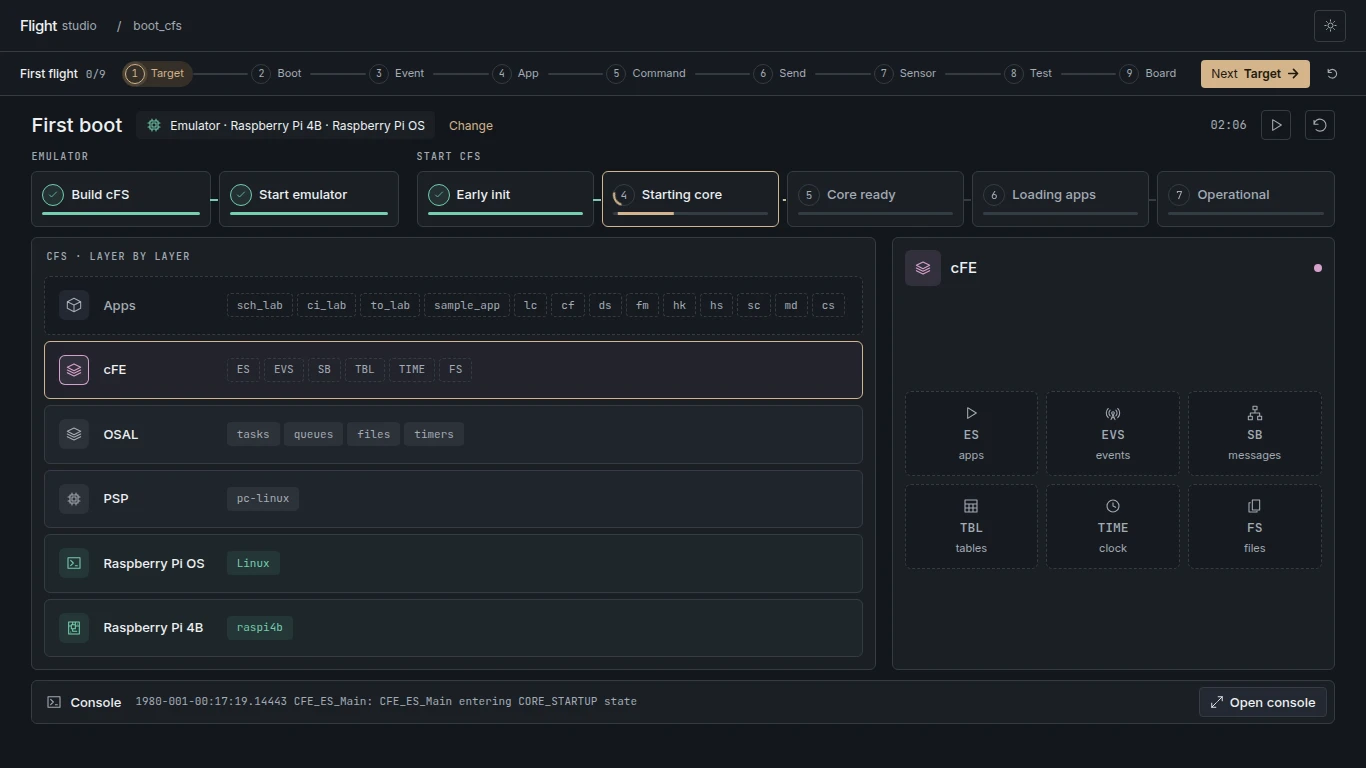
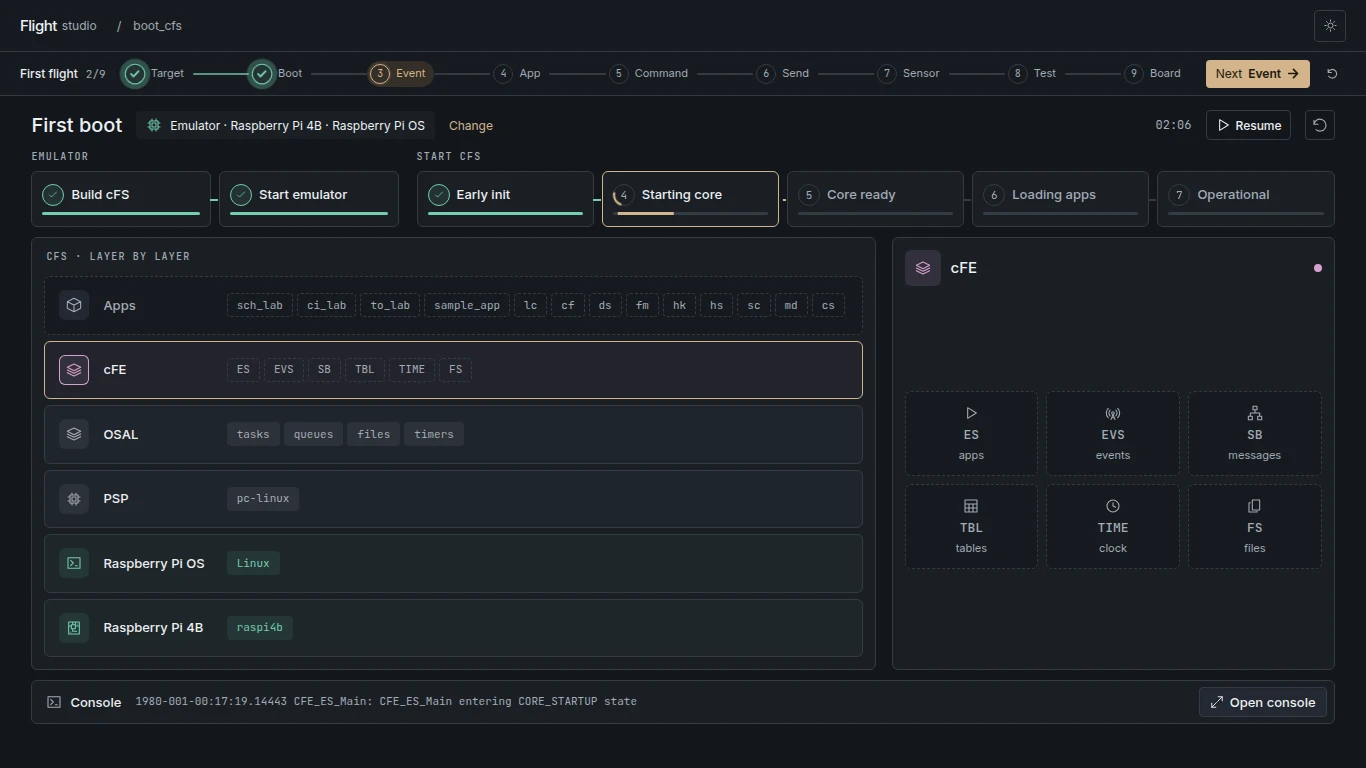
Refresh setup and boot walkthroughs from the running mission

diff --git a/docs/validation.md b/docs/validation.md
@@ -4,7 +4,7 @@
 
 | Ambiente | Python | JavaScript |
 | --- | --- | --- |
-| Checkout com o cFS oficial instalado, após o reparo do boot QEMU | 74 de 74 passaram, inclusive os dois ciclos HTTP de missão e hardware. | 24 de 24 passaram. |
+| Checkout com o cFS oficial instalado, após a revisão de configuração e primeiro boot | 77 de 77 passaram, inclusive os dois ciclos HTTP de missão e hardware. | 25 de 25 passaram. |
 | Projeto antes do clone, ensaio anterior | 61 passaram. Os dois ciclos HTTP que dependem dos fontes oficiais foram pulados. | 20 de 20 passaram. |
 
 ## Primeiro voo nativo
@@ -36,8 +36,9 @@ Em 19 de novembro de 2026, o Raspberry Pi OS emulado já havia chegado ao login,
 | --- | --- |
 | Binário e destino | cFS oficial `a4d305dc06fb`, build ARM64, guest `aarch64`. |
 | Processo e journal | `cfs.service` ativo, PID 1023. O journal dessa invocação registrou os cinco estados do ES, até `CFE_ES_Main entering OPERATIONAL state`. |
+| Retomada do console | Ao reiniciar o servidor do Studio, o mesmo serviço continuou em OPERATIONAL. Um leitor identificado pela invocação systemd recuperou o evento de inicialização **MD/1** e seguiu recebendo novas linhas. |
 | Apps | 13 entradas no startup. Doze apps emitiram seu evento EVS de inicialização. `sch_lab` confirmou a inicialização em texto no console. Seu chip aguarda um evento EVS identificado. |
-| Navegador | Os cartões passaram por build, emulador e início do cFS. Abrir o console preservou a posição da pilha. O botão **Ground Station** abriu a etapa Event. |
+| Navegador | A faixa exibiu o build, o emulador e os cinco marcos de início do cFS. Abrir o console preservou a posição da pilha. Na versão atual, o espaço entre o rodapé e o fim da janela ficou em 18 px a 1440 × 900 e 8 px a 1366 × 768. O botão **Ground Station** abriu a etapa Event. |
 
 [![Voo QEMU em OPERATIONAL na janela do Studio](images/first-flight/boot-qemu-running.webp)](images/first-flight/boot-qemu-running.webp)
 
@@ -48,7 +49,7 @@ Cada linha traz o export interativo fornecido e a tela correspondente servida pe
 <details>
 <summary>Escolha do alvo</summary>
 
-As capturas mostram o estado depois de verificar **Native** em uma cópia nova. **Compiler** e **Python** passaram. **Source** aguarda a instalação. Abrir os detalhes e o terminal manteve os cartões nas mesmas coordenadas em 1440 × 900, 1366 × 768 e 390 × 844. Em uma instalação de teste com PTY, **Input required** permitiu responder a uma solicitação de senha e acompanhar a verificação posterior. O tema claro da aplicação usa bege.
+As capturas mostram o estado depois de verificar **Native** em uma cópia nova. **Compiler** e **Python** passaram. **Source** aguarda a instalação. Na placa, confirmamos que **Save settings** persistiu o endereço pela API e que **Cancel** e Escape preservaram o valor anterior. Abrir os detalhes e o terminal manteve os cartões nas mesmas coordenadas em 1440 × 900, 1366 × 768 e 390 × 844. Em uma instalação de teste com PTY, **Input required** permitiu responder a uma solicitação de senha e acompanhar a verificação posterior. O tema claro da aplicação usa bege.
 
 | Janela e tema | Referência | Flight Studio |
 | --- | --- | --- |
@@ -62,7 +63,7 @@ As capturas mostram o estado depois de verificar **Native** em uma cópia nova. 
 <details>
 <summary>Primeiro boot</summary>
 
-As capturas mostram a reprodução de um voo nativo, pausado em **Starting core**, com os cinco marcos abertos pelo cartão **Start cFS**. As apps recebem a marca de inicialização conforme chegam suas mensagens no log. O console pôde ser aberto e fechado sem deslocar a pilha em ambas as resoluções.
+As capturas mostram o voo QEMU no registro **Starting core**. A faixa superior exibe cada um dos cinco estados do núcleo. No Chromium, selecionar **Loading apps** mostrou as apps confirmadas até aquele registro e manteve **Operational** pendente. **Resume** voltou ao voo em execução. **Open console**, **Close console** e Escape mantiveram a posição da pilha. A página coube em 1440 × 900, 1366 × 768 e 390 × 844 nos dois temas.
 
 | Janela e tema | Referência | Flight Studio |
 | --- | --- | --- |

diff --git a/docs/design.md b/docs/design.md
@@ -43,8 +43,8 @@ flowchart LR
 
 | Área | Ação e resposta |
 | --- | --- |
-| **Choose target** | As três ilustrações representam Native, Emulator e Board. Ao abrir a página, os grupos aparecem em estado neutro. Ativar um cartão por clique, Enter ou Espaço inicia os três grupos em sequência, inclusive no destino já selecionado. **Install requirements** verifica e corrige o destino. Um grupo com **+** permite reparar aquele requisito. O anel acompanha a instalação e dá lugar a um check depois da verificação. **Details** abre os comandos e seus resultados ou o terminal da instalação em andamento. Ambos se sobrepõem ao setup. Os três grupos aprovados liberam **Continue to boot**. |
-| **First boot** | Os cartões acompanham as etapas necessárias para o alvo. A pilha acende conforme o log do voo. Clique em uma camada para inspecionar seu desenho. O cartão **Start cFS** mostra a etapa atual do Executive Services e abre o histórico dos cinco marcos. O console abre sobre a pilha pelo rodapé. O replay usa os instantes registrados pelo build e pelo cFS. É possível pausar, retomar e rever as camadas. **Ground Station** abre a estação quando o cFS está em OPERATIONAL. |
+| **Choose target** | As três ilustrações representam Native, Emulator e Board. Ao abrir a página, os grupos aparecem em estado neutro. Ativar um cartão por clique, Enter ou Espaço inicia os três grupos em sequência, inclusive no destino já selecionado. **Install requirements** verifica e corrige o destino. Quando há pendências, **Click + to fix** aponta para os grupos em âmbar. Em **Board**, o host e o usuário salvos abrem o campo correspondente em **Configure**. **Save settings** grava os valores e reinicia as verificações. **Cancel** descarta a edição. O anel acompanha a instalação e dá lugar a um check depois da verificação. **Details** abre os comandos e seus resultados ou o terminal da instalação em andamento. Ambos se sobrepõem ao setup. Os três grupos aprovados liberam **Continue to boot**. |
+| **First boot** | Os cartões acompanham as etapas necessárias para o alvo. A pilha acende conforme o log do voo. Clique em uma camada para inspecionar seu desenho. A seção **Start cFS** traz cinco cartões de Executive Services. Clicar em um marco observado recupera o registro exato e as camadas daquele momento, inclusive quando vários eventos chegam no mesmo milissegundo. O botão **Resume** volta à execução. A pilha ocupa a altura disponível, e a barra do console mantém **Open console** ou **Close console** visível. Escape fecha o console. O replay usa os instantes registrados pelo build e pelo cFS. É possível pausar, retomar e rever as camadas. **Ground Station** abre a estação quando o cFS está em OPERATIONAL. |
 | **Ground Station** | Na primeira conexão, **Select ENABLE_OUTPUT** prepara o comando com o endereço de retorno. O envio continua sendo uma ação do usuário. O primeiro contato usa `sample_app` ou uma app de missão. O coach distingue pacote recebido, evento do NOOP e incremento do contador. **All apps** abre o restante do catálogo. Clicar em um envio anterior recupera as observações daquele envio, inclusive depois de trocar de comando. |
 | **Mission architecture** | 3D e 2D mostram a mesma missão. Gire, aproxime e selecione uma peça para ver as conexões e ações. Em **Your apps**, **Create your first app** abre **What it is → Its files → Create**. O nome ocupa o espaço tracejado no barramento. O usuário vê os arquivos, o registro de startup e o build antes de confirmar. A engrenagem reúne os parâmetros avançados. |
 | **Code** | Navegar pela árvore abre arquivos e linhas de origem. A atividade **New command** de uma app de missão abre o percurso **Code → Struct → Prototype → Dispatch → Events → Handler → Test**. Uma etapa de código recebe o check depois da visita e da identificação da referência. O handler exige implementação. No passo **Test**, o Studio prepara a revisão que contém o comando e abre seu formulário na estação. Um check final exige as observações de voo do teste. |

diff --git a/docs/backend.md b/docs/backend.md
@@ -50,7 +50,7 @@ Uma requisição de origem ou sessão inválida recebe HTTP 403. Erros de parâm
 4. Com o alvo salvo e os requisitos verificados, envie `{"action":"first-boot","options":{"target":"native"}}` a `POST /api/job`. O servidor usa a operação exclusiva de build e deploy, congela o catálogo associado ao binário e inicia o cFS. No emulador, ele inicia o guest ou autentica o guest já ligado. Ao retomar, reutiliza o build se o alvo, as fontes e o SHA-256 dos arquivos instalados correspondem ao recibo. Um recibo antigo sem essa assinatura requer uma compilação. Na placa, acompanha o upload e a ativação do serviço.
 5. Leia `GET /api/first-boot?target=native`. A resposta contém `job.phase`, `job.build_percent` quando disponível, `apps`, `flight.states`, `flight.initialized`, `running`, `stopped` e o final do log em `lines`. A compilação fornece `build_percent`. Nas etapas de instalação e de preparação do catálogo, `build_activity` identifica a operação e a porcentagem volta a `null`. O script instalado fornece a lista de módulos. O estado do ES e os registros EVS vêm do processo ou da invocação systemd do voo.
 
-O parser reconhece a identificação de espaçonave, processador, aplicação e evento a partir da linha EVS. Um módulo listado no startup pode continuar com o indicador de inicialização pendente quando sua mensagem de inicialização não é publicada por EVS. A sequência temporal de `trace` guarda os instantes de progresso do build e das transições observadas no processo. O replay lê essa sequência localmente. Ao parar o cFS, o registro de OPERATIONAL ainda comprova que aquele voo aconteceu. Em Native, o snapshot consulta o processo do projeto. Em QEMU e Board, ele confirma o processo principal e o identificador da invocação systemd que produziu o log. O cabeçalho e a tela de boot compartilham essa consulta por até três segundos. Uma falha de comunicação produz o estado **Unverified**. [Pré-requisitos](../hardware/infrastructure.py) · [Primeiro boot](../interface/backend/first_boot.py) · [Execução](../hardware/manager.py)
+O parser reconhece a identificação de espaçonave, processador, aplicação e evento a partir da linha EVS. Um módulo listado no startup pode continuar com o indicador de inicialização pendente quando sua mensagem de inicialização não é publicada por EVS. A sequência temporal de `trace` guarda os instantes de progresso do build e das transições observadas no processo. O replay lê essa sequência localmente. Cada cartão pode recuperar uma observação pelo índice, inclusive quando as linhas compartilham um instante. Ao parar o cFS, o registro de OPERATIONAL ainda comprova que aquele voo aconteceu. Em Native, o snapshot consulta o processo do projeto. Em QEMU e Board, ele confirma o processo principal e o identificador da invocação systemd que produziu o log. O cabeçalho e a tela de boot compartilham essa consulta por até três segundos. Ao reabrir o Studio com o serviço ativo, a tela reutiliza um leitor do journal vinculado àquela invocação para mostrar as últimas 300 linhas e confirmar os eventos das apps. Uma falha de comunicação produz o estado **Unverified**. [Pré-requisitos](../hardware/infrastructure.py) · [Primeiro boot](../interface/backend/first_boot.py) · [Execução](../hardware/manager.py)
 
 ## Evidência do guia
 

diff --git a/README.md b/README.md
@@ -16,7 +16,7 @@ A plataforma e o código de voo têm origens separadas. A configuração baixa o
 
 1. Abra **http://127.0.0.1:8765** e escolha **Native** para a primeira execução.
 2. Clique em **Install requirements**. O Studio verifica **Compiler**, **Python** e **Source**, instala o que falta e verifica o resultado. O **+** permite corrigir só aquele grupo. Durante uma instalação, **Details** abre o terminal sobre a página. Se um instalador precisar de uma senha, o botão passa a **Input required**.
-3. Quando os três grupos passarem, clique em **Continue to boot**. A tela **First boot** acompanha o build e a inicialização. Clique em uma camada para inspecioná-la ou em **Start cFS** para ver as etapas de inicialização do núcleo. O console permite localizar `CFE_ES_Main entering OPERATIONAL state`.
+3. Quando os três grupos passarem, clique em **Continue to boot**. A tela **First boot** acompanha o build e a inicialização. Cada cartão de **Start cFS** corresponde a um estado do núcleo. Clique em um marco já observado para ver as camadas naquele instante. **Resume** volta ao voo. Em **Open console**, você pode localizar `CFE_ES_Main entering OPERATIONAL state`.
 4. Abra **Ground Station** e clique em **Connect**. Envie o comando de **to_lab** para habilitar a saída de telemetria no endereço já preenchido. Aguarde o primeiro pacote e a amostra inicial do contador de **sample_app**. Envie **SAMPLE_APP_NOOP_CC**. O evento com a mensagem NOOP e o aumento de `CommandCounter` confirmam a resposta.
 5. Clique em **App** na barra **First flight** e em **Create your first app**. Dê um nome, confira os arquivos de C e as entradas de build e startup. Confirme em **Create** para gravar a proposta. **Next → add a command** abre a atividade no editor dessa app.
 
